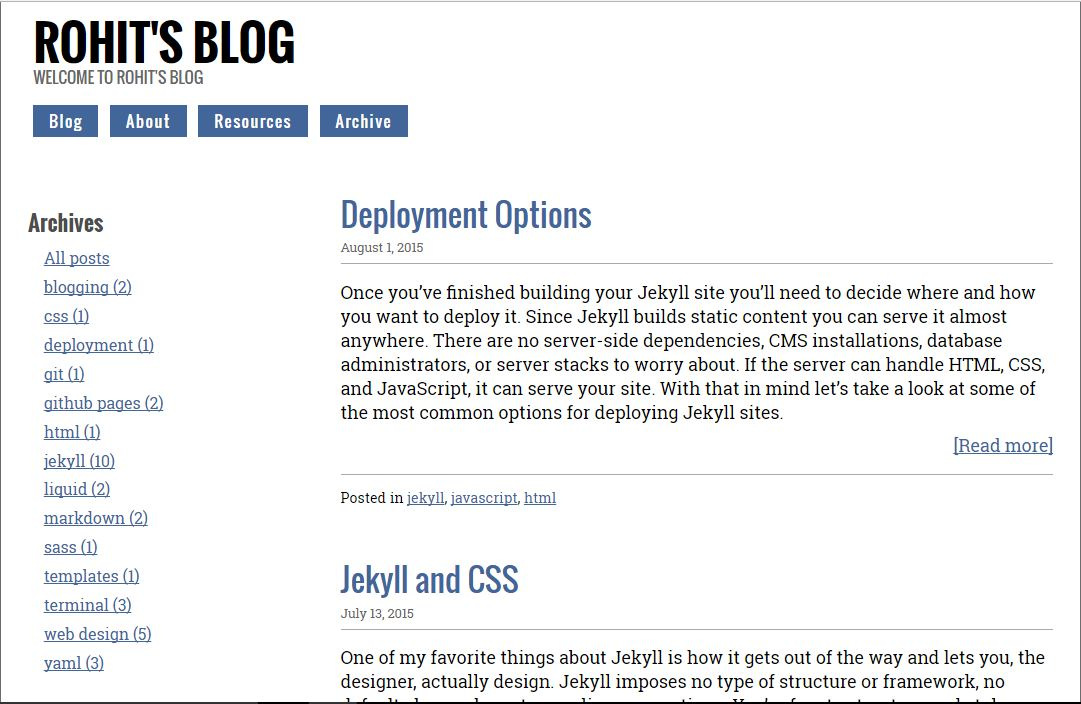
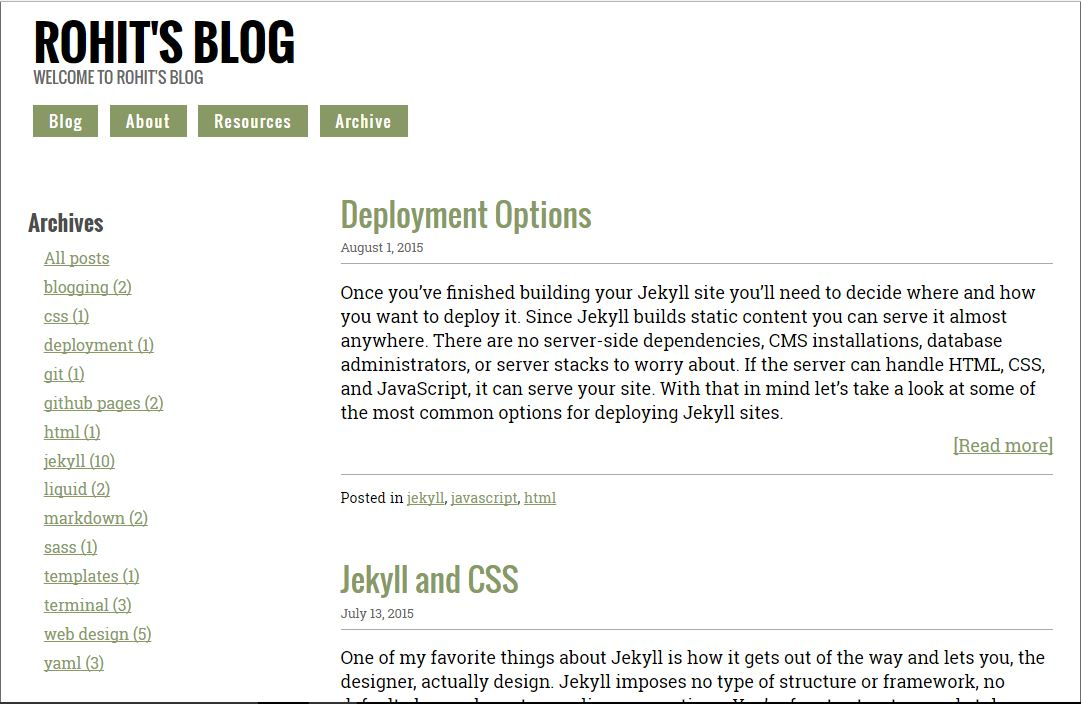
update

diff --git a/css/main.css b/css/main.css
@@ -303,7 +303,7 @@ a {
 	line-height: inherit;
 }
 a:hover {
-	color: #889966;
+	color: #374223;
 }
 img, object, embed {
 	max-width: 100%;
@@ -775,7 +775,7 @@ nav li a {
 }
 nav li a:hover {
 	color: white;
-	background: #333;
+	background: #374223;
 }
 /* -------------------------------------------------- 
    article styles
